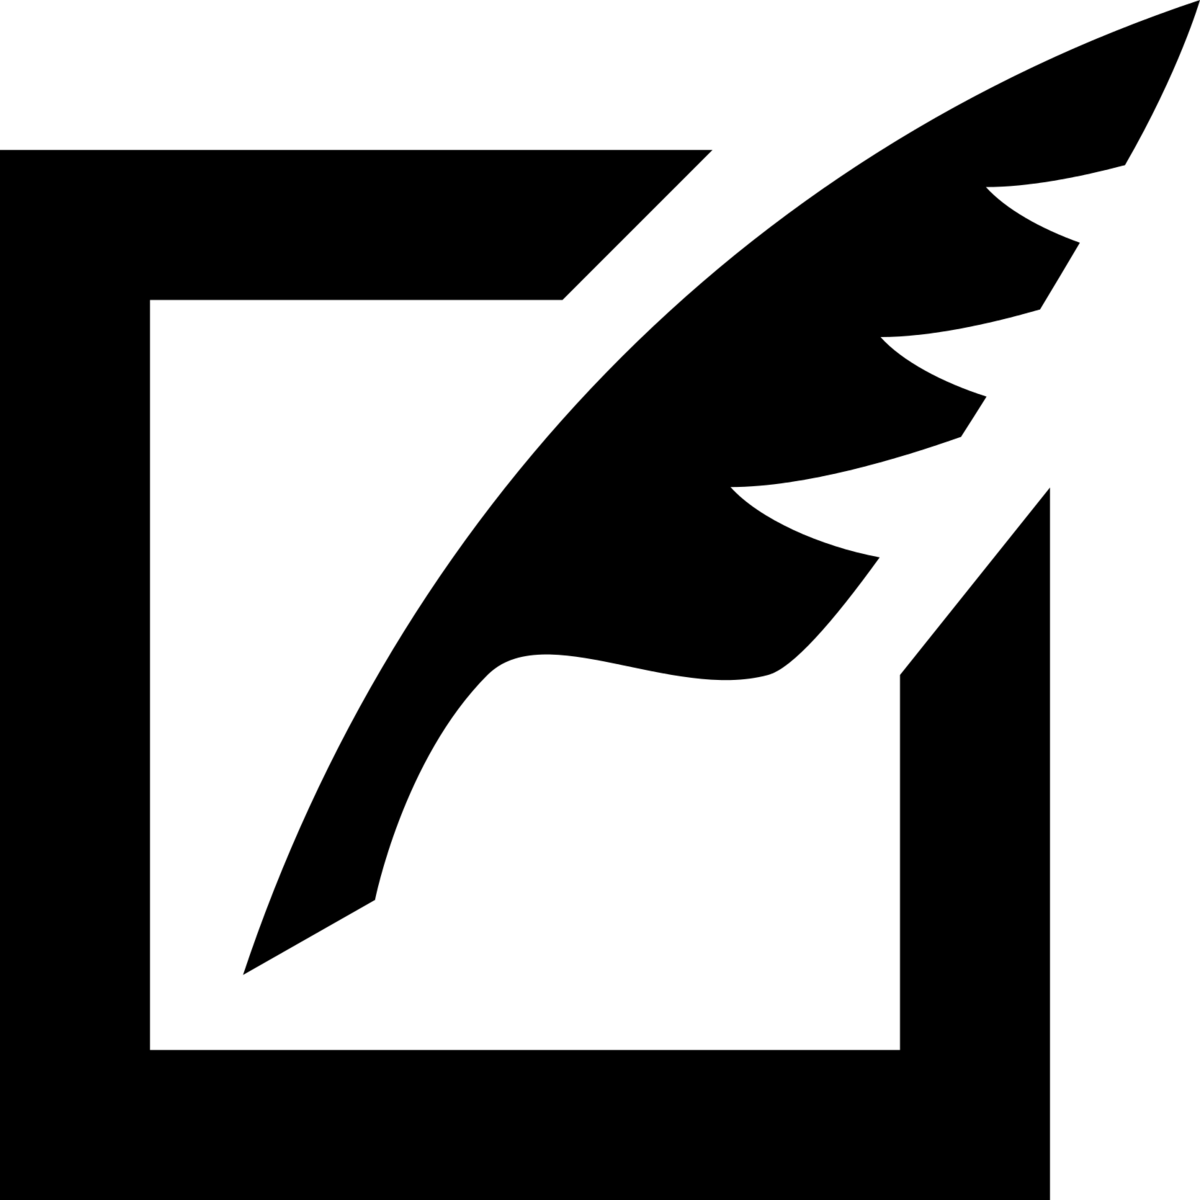
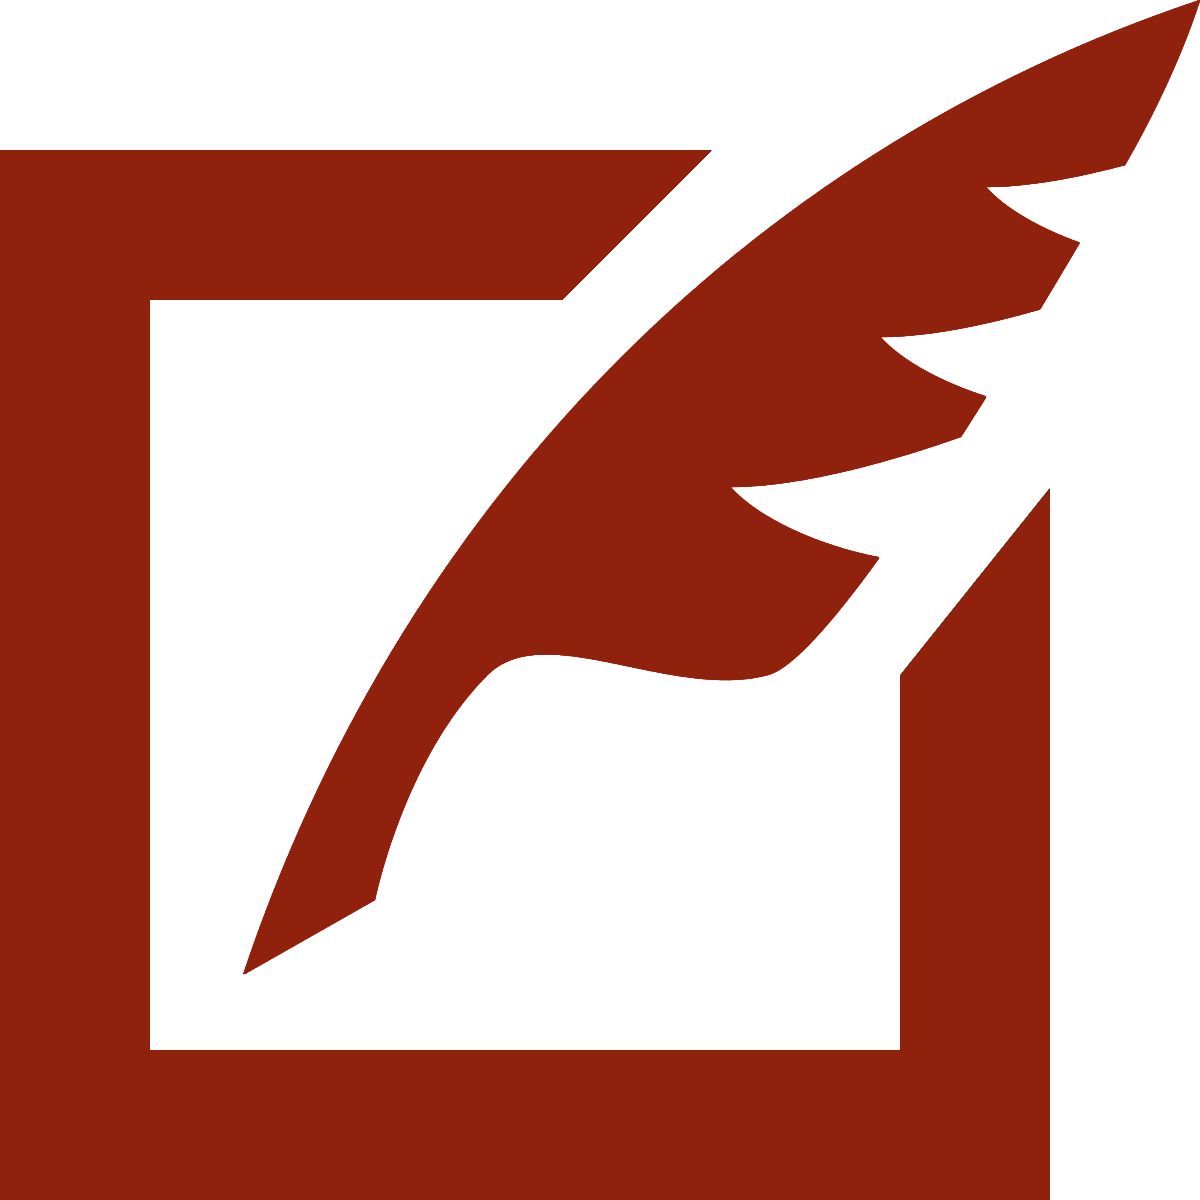
keillorbot button styling

diff --git a/app/assets/stylesheets/application.css.scss b/app/assets/stylesheets/application.css.scss
@@ -8,6 +8,7 @@
  * You're free to add application-wide styles to this file and they'll appear at the top of the
  * compiled file, but it's generally better to create a new file per style scope.
  *
+ *= require font-awesome
  *= require_self
  *= require_tree .
  */
@@ -15,23 +16,45 @@
 @import "bootstrap";
 
 $font-stack: "Old Standard TT";
+// Vollkorn
+// Old Standard TT
+// Gentium Book Basic
+// Cardo
+// Merriweather
+// Playfair Display
+
+
+$base-highlight: #90220D;;
 
 h1, h2, h3, h4, h5, h6 {
-    font-family: $font-stack;
+    font-family: $font-stack !important;
 }
-p, div {
-    font-family: $font-stack;
+p, div, li, a {
+    font-family: $font-stack !important;
+}
+
+a:link, a:visited, a:hover, a:active { 
+    text-decoration: none !important;
+    color: #000001;
 }
 
 #redstripe {
     height: 5px;
-    background-color: #90220D;
+    background-color: $base-highlight;
+}
+
+#logo-png {
+    color: $base-highlight;
+    display: inline;
+}
+
+#brand {
+    font-color: $base-highlight;
+    display: inline;
 }
 
 #navbar {
-    height: 50px;
-    background-color: #444;
-
+    
 }
 
 #body {
@@ -43,21 +66,24 @@ p, div {
 
 }
 
-
 #poem-body {
 width: 75%;
 margin: 100px auto;
-    p, div {
-        font-family: $font-stack;
-        font-weight: 400;
-        font-size: 1em;
-    }
 
 }
-// Gentium Book Basic
 
+.fa {
+    color: $base-highlight;
+}
 
+#poem-title {
+    display: inline;
+}
 
+#keillorbot {
+    background: none;
+    border: none;
+}
 
 
 #signin_nav_links {

diff --git a/config/routes.rb b/config/routes.rb
@@ -16,6 +16,7 @@ PoemToday::Application.routes.draw do
   post 'poems/voice' => 'poems#voice'
   post 'poems/search' => 'poems#search'
   get  '/ephemeral' => 'poems#ephemeral'
+  get  '/about' => 'welcome#index'
   
   # The priority is based upon order of creation: first created -> highest priority.
   # See how all your routes lay out with "rake routes".
